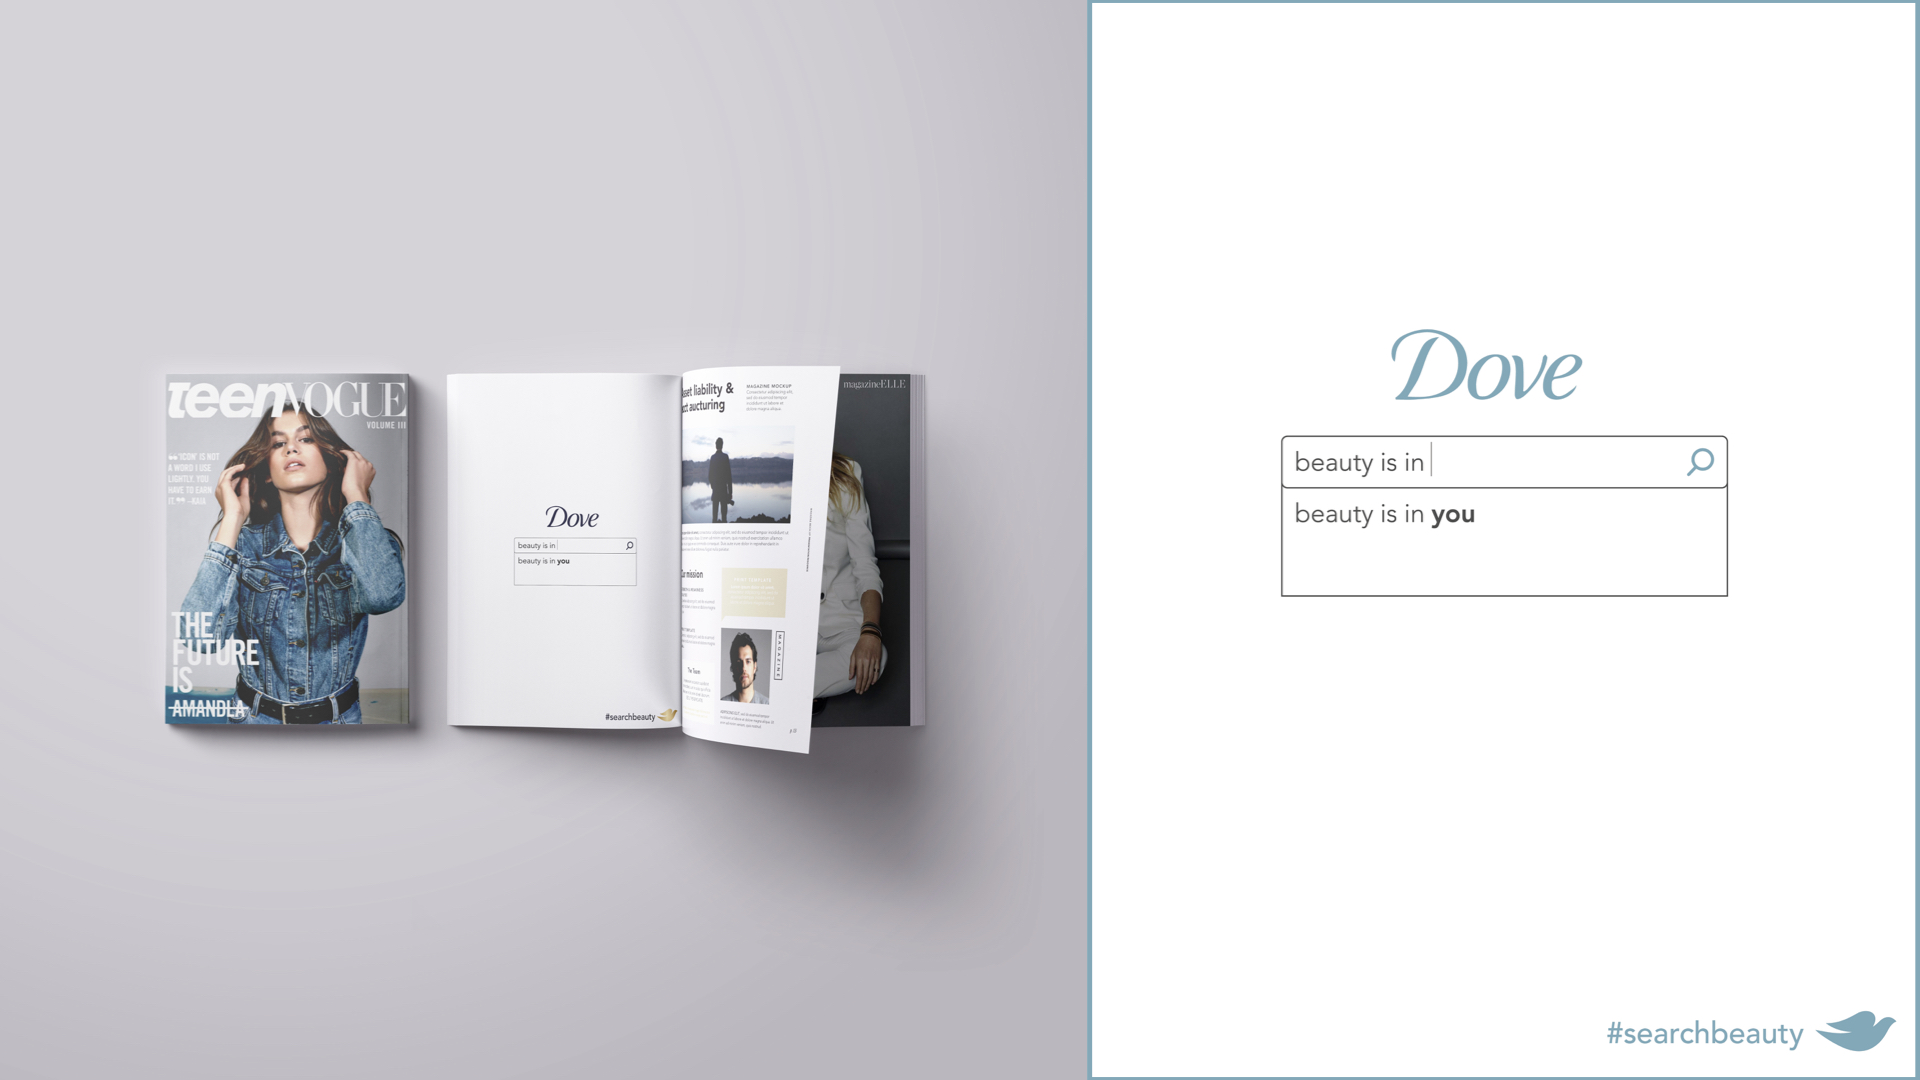
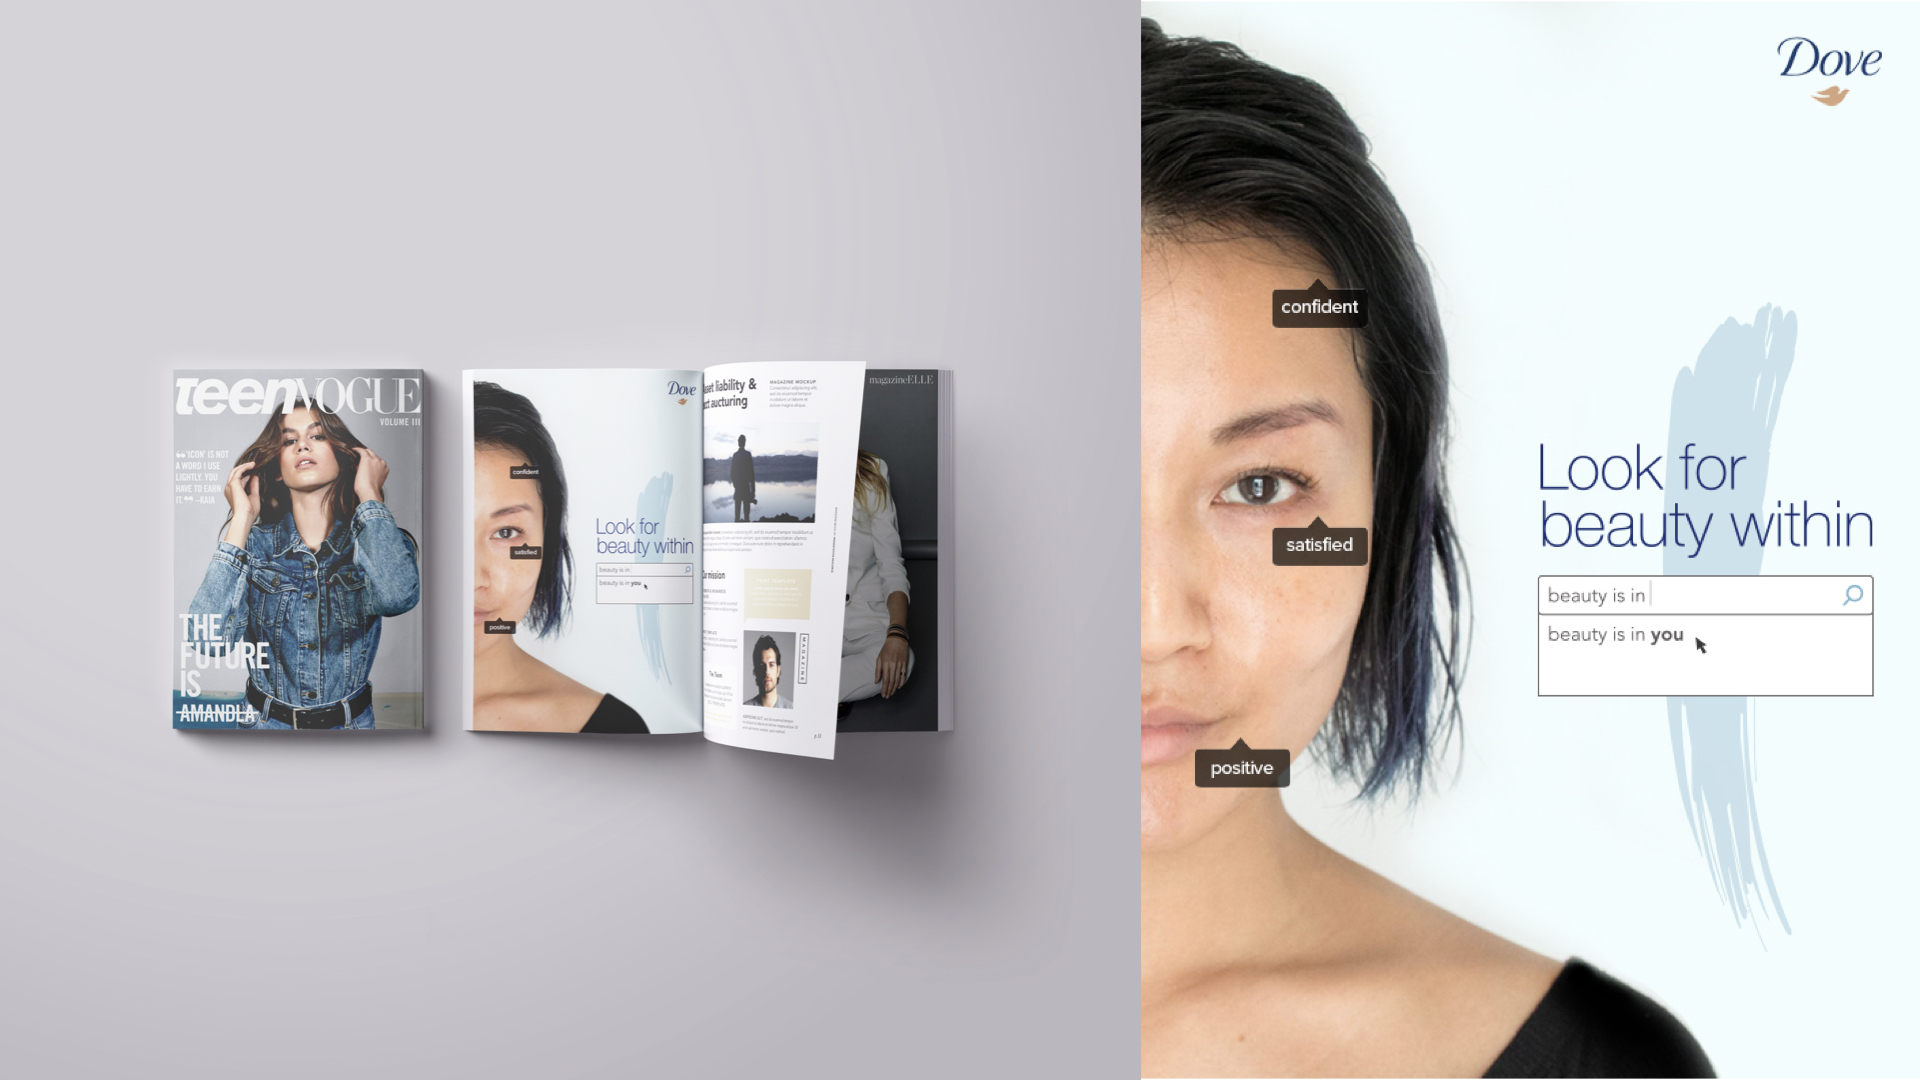
dove

diff --git a/dove.html b/dove.html
@@ -31,7 +31,7 @@
   </nav>
 </div>
 <div class="offset-xl-2 col-xl-8 offset-md-1 col-md-10 offset-sm-1 col-sm-10 col-12" style="margin-top: 5%"> <a href="index.html" style="color: gray; font-size: 0.7rem">Designer</a> <i class="fas fa-angle-right" style="font-size:10px; margin-left: 2%;margin-right: 2%; color: gray"></i> <a href="eatweb.html" style="color: gray; font-size: 0.7rem">Dove #searchbeauty</a>
-  <h1 style="margin-top: 2%; margin-bottom: 3%; color: #82b5ce">Dove <br>
+  <h1 style="margin-top: 2%; margin-bottom: 3%; color: #1c2c71">Dove <br>
     #searchbeauty</h1>
   <p1> <strong>The task</strong> Create a campaign as an extension of the current campaign. <br>
     <br>
@@ -50,21 +50,24 @@
   <div style="margin-top: 3%; margin-bottom: 3%"> <img src="image/d_8/dove.005.jpeg" alt=""  class="center"> </div>
   <div  style="margin-top: 3%; margin-bottom: 3%"> <img src="image/d_8/dove.006.jpeg" alt=""  class="center"> </div>
   <div  style="margin-top: 3%; margin-bottom: 10%"> <img src="image/d_8/dove.007.jpeg" alt=""  class="center"> </div>
-  <h3 style="color: #82b5ce"><strong>Dove Pre-roll ad</strong></h3>
-  <div class="iframe-container" style="margin-top: 3%">
+  <h2 style="color: #1c2c71"><strong>Dove Pre-roll ad</strong></h2>
+	<p4>Why look for beauty online, when beauty is found within?</p4>
+  <div class="iframe-container" style="margin-top: 3%; margin-bottom: 10%">
     <iframe src="https://www.youtube.com/embed/WLG6abiDRSY" frameborder="0" allow="accelerometer; encrypted-media; gyroscope; picture-in-picture" allowfullscreen></iframe>
   </div>
-  <div class="iframe-container" style="margin-top: 10%">
+	<p4>Don't look for beauty online, look for beauty within.</p4>
+  <div class="iframe-container" style="margin-top: 3%; margin-bottom: 10%">
     <iframe src="https://www.youtube.com/embed/rOlmPvTriPQ" frameborder="0" allow="accelerometer; encrypted-media; gyroscope; picture-in-picture" allowfullscreen></iframe>
   </div>
-  <div class="iframe-container" style="margin-top: 10%; margin-bottom: 10%">
+	<p4>Visually differences shouldn't define us, your eyes are beautiful just the way they are. So are you.</p4>
+  <div class="iframe-container" style="margin-top: 3%; margin-bottom: 10%">
     <iframe src="https://www.youtube.com/embed/k9QdPnRFADU" frameborder="0" allow="accelerometer; encrypted-media; gyroscope; picture-in-picture" allowfullscreen></iframe>
   </div>
-  <h3 style="color: #82b5ce"><strong>Mockups</strong></h3>
+  <h2 style="color: #1c2c71"><strong>Print Ad/ Display Ad</strong></h2>
   <div  style="margin-top: 3%; margin-bottom: 3%"> <img src="image/d_8/dove.010.jpeg" alt=""  class="center"> </div>
-  <div style="margin-top: 3%; margin-bottom: 3%"> <img src="image/d_8/dove.011.jpeg" alt=""  class="center" style="border: solid 1px #303030"> </div>
-  <div style="margin-top: 3%; margin-bottom: 3%"> <img src="image/d_8/dove.012.jpeg" alt=""  class="center" style="border: solid 1px #303030"> </div>
-  <div style="margin-top: 3%; margin-bottom: 3%"> <img src="image/d_8/dove.013.jpeg" alt=""  class="center" style="border: solid 1px #303030"> </div>
+ 
+  <div style="margin-top: 3%; margin-bottom: 3%"> <img src="image/d_8/dove.012.jpeg" alt=""  class="center" style="border: solid 1px #1c2c71"> </div>
+  <div style="margin-top: 3%; margin-bottom: 3%"> <img src="image/d_8/dove.013.jpeg" alt=""  class="center" style="border: solid 1px #1c2c71"> </div>
   <div class="card" style="margin-top: 20%; border: none;">
     <div class="card-header" style="background-color: white; font-size: 1.3rem"> Other works you might like </div>
     <div class="card-body">

diff --git a/mypro.css b/mypro.css
@@ -39,6 +39,11 @@ p2 {
 	line-height: 200%;
 	
 }
+p4{
+	font-family: 'Asap', sans-serif;
+	color: #e5c693;
+	font-size: 1.2rem;
+}
 /* unvisited link */
 a:link {
 	color: black;
